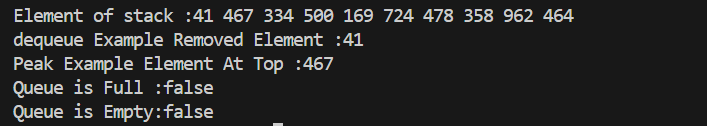
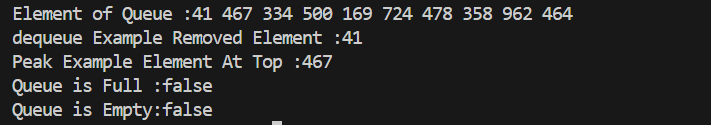
add code

diff --git a/Hands-On-7/queue.cpp b/Hands-On-7/queue.cpp
@@ -57,7 +57,7 @@ public:
 };
 int main(){
  Queue Q;
- std::cout<<"Element of stack :";
+ std::cout<<"Element of Queue :";
     for (int i = 0; i < 10; ++i) {
         int a =rand() % 1000;
         std::cout<<a<<" ";
